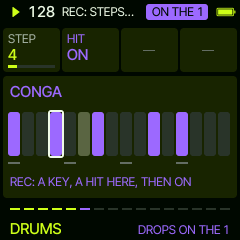
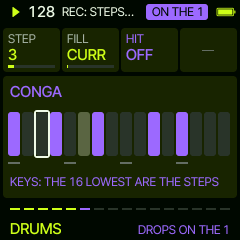
EDIT: KNOB 2 FILL (CURR and ready fills: drum fills, lines in the key, chord rhythms); a drum's steps on the 16 lowest keys, lit
Claude-Session: https://claude.ai/code/session_01VgesZgNNDFiPGvKyDTZVUK

diff --git a/firmware/src/sa_ui.c b/firmware/src/sa_ui.c
@@ -261,6 +261,8 @@ static int sv_sounds_of(int role, uint8_t *out)
 }
 
 static uint16_t sv_ed_bits(sa_ui *u, int l);         /* (below: the copy's bar of a layer) */
+static int sv_fills(const sa_ui *u);                 /* (below: EDIT's FILLs) */
+static const char *sv_fill_name(const sa_ui *u, int f);
 static int sv_now(const sa_groove *g) { return g->playing && g->tick >= 0 ? g->tick / SA_TPS : -1; }
 
 static void sv_cards_of(sa_ui *u, sv_card *c)
@@ -327,8 +329,8 @@ static void sv_cards_of(sa_ui *u, sv_card *c)
         bool on = e->type == SA_T_DRUM && ((sv_ed_bits(u, l) >> st) & 1u);
         sv_fmt_int(t, st + 1);
         sv_card_txt(&c[0], "STEP", t, st * 1000 / 15, false);
-        sv_card_txt(&c[1], "HIT", on ? "ON" : "OFF", -1, false);
-        sv_card_off(&c[2]);
+        sv_card_txt(&c[1], "FILL", sv_fill_name(u, u->fill), u->fill * 1000 / (sv_fills(u) - 1), u->fill > 0);
+        sv_card_txt(&c[2], "HIT", on ? "ON" : "OFF", -1, false);
         sv_card_off(&c[3]);
         return;
     }
@@ -359,6 +361,11 @@ static void sv_cards_of(sa_ui *u, sv_card *c)
             sv_card_txt(&c[2], "NOTE", "-", -1, false);
         }
         sv_card_off(&c[3]);
+        if (u->page == SV_PG_EDIT) {               /* EDIT: STEP FILL LENGTH NOTE */
+            c[3] = c[2];
+            c[2] = c[1];
+            sv_card_txt(&c[1], "FILL", sv_fill_name(u, u->fill), u->fill * 1000 / (sv_fills(u) - 1), u->fill > 0);
+        }
         return;
     }
     switch (sv_page_now(u)) {
@@ -1173,7 +1180,7 @@ static void sv_panel_edit_drum(sa_ui *u)
         cv_rrect(x, 36, 12, 44, 3, c, T_SURF);
         if (k % 4 == 0) cv_rect(x, 86, 12, 2, T_DIM);
     }
-    sv_label(10, 98, u->rec ? "REC: A KEY, A HIT HERE, THEN ON" : "REC: WRITE WITH THE KEYS", u->rec ? T_ACCENT : T_DIM);
+    sv_label(10, 98, u->rec ? "KEYS: THE 16 LOWEST ARE THE STEPS" : "REC: THE STEPS ON THE KEYS", u->rec ? T_ACCENT : T_DIM);
 }
 
 static void sv_draw_panel(sa_ui *u)
@@ -1295,6 +1302,83 @@ void sv_init(sa_ui *u, sa_groove *g)
         u->key_sent[k] = -1;
     memset(u->main_code, 0xFF, sizeof u->main_code);
     sv_apply_style(u);
+}
+
+/* EDIT's FILLs: ready steps the pattern becomes (in the copy, waits for SEQ). A drum: hits over the bar as it was
+ * (OR: its own kept) or in place of it; a line: notes on scale degrees (7: the octave up); CHORD: the chord's steps */
+typedef struct { const char *name; uint16_t mask; uint8_t keep; } sv_dfill;
+static const sv_dfill SV_DFILL[] = {
+    {"ROLL", 0xF000, 1},                  /* the last beat in sixteenths */
+    {"BUILD", 0xF511, 0},                 /* 1 5 9 11 13 14 15 16: closing in */
+    {"SNARE", 0xE110, 0},                 /* 5 9 13 14 15 16 */
+    {"BREAK", 0x00FF, 2},                 /* the first half only */
+    {"STUTTER", 0x0F00, 1},               /* the third beat in sixteenths */
+    {"GALLOP", 0xDDDD, 0},                /* 1 3 4 per beat */
+    {"FLAM", 0x8000, 1},                  /* one more on the last sixteenth */
+    {"DOUBLE", 0xFFFF, 3},                /* every hit twice: on the next sixteenth too */
+};
+#define SV_NDFILL ((int)(sizeof SV_DFILL / sizeof SV_DFILL[0]))
+typedef struct { const char *name; uint8_t n; struct { uint8_t st, len; int8_t deg; } s[16]; } sv_mfill;
+static const sv_mfill SV_MFILL[] = {
+    {"ROOT 8THS", 8, {{0, 2, 0}, {2, 2, 0}, {4, 2, 0}, {6, 2, 0}, {8, 2, 0}, {10, 2, 0}, {12, 2, 0}, {14, 2, 0}}},
+    {"ARP UP", 8, {{0, 2, 0}, {2, 2, 2}, {4, 2, 4}, {6, 2, 7}, {8, 2, 0}, {10, 2, 2}, {12, 2, 4}, {14, 2, 7}}},
+    {"ARP DOWN", 8, {{0, 2, 7}, {2, 2, 4}, {4, 2, 2}, {6, 2, 0}, {8, 2, 7}, {10, 2, 4}, {12, 2, 2}, {14, 2, 0}}},
+    {"OCTAVES", 8, {{0, 2, 0}, {2, 2, 7}, {4, 2, 0}, {6, 2, 7}, {8, 2, 0}, {10, 2, 7}, {12, 2, 0}, {14, 2, 7}}},
+    {"WALK", 4, {{0, 4, 0}, {4, 4, 1}, {8, 4, 2}, {12, 4, 4}}},
+    {"RIFF", 6, {{0, 2, 0}, {3, 1, 0}, {6, 2, 2}, {8, 2, 4}, {11, 1, 3}, {14, 2, 2}}},
+    {"CALL", 4, {{0, 3, 4}, {4, 2, 2}, {6, 2, 0}, {12, 3, 1}}},
+    {"PULSE 16", 16, {{0, 1, 0}, {1, 1, 0}, {2, 1, 0}, {3, 1, 0}, {4, 1, 0}, {5, 1, 0}, {6, 1, 0}, {7, 1, 0},
+                     {8, 1, 0}, {9, 1, 0}, {10, 1, 0}, {11, 1, 0}, {12, 1, 0}, {13, 1, 0}, {14, 1, 0}, {15, 1, 0}}},
+};
+#define SV_NMFILL ((int)(sizeof SV_MFILL / sizeof SV_MFILL[0]))
+typedef struct { const char *name; uint16_t mask; uint8_t len; } sv_cfill;
+static const sv_cfill SV_CFILL[] = {
+    {"STABS", 0x0408, 2}, {"OFFBEATS", 0x4444, 2}, {"PUSH", 0x4001, 3}, {"PULSE", 0x1111, 2}, {"8THS", 0x5555, 1},
+    {"16THS", 0xFFFF, 1}, {"DOTTED", 0x1249, 2}, {"HOLD", 0x0001, 16},
+};
+#define SV_NCFILL ((int)(sizeof SV_CFILL / sizeof SV_CFILL[0]))
+static int sv_fills(const sa_ui *u) { return 1 + (u->view == SV_V_DRUMS ? SV_NDFILL : u->view == SV_V_CHORD ? SV_NCFILL : SV_NMFILL); }
+static const char *sv_fill_name(const sa_ui *u, int f)
+{
+    if (f <= 0) return "CURR";
+    return u->view == SV_V_DRUMS ? SV_DFILL[(f - 1) % SV_NDFILL].name : u->view == SV_V_CHORD ? SV_CFILL[(f - 1) % SV_NCFILL].name
+                                                                    : SV_MFILL[(f - 1) % SV_NMFILL].name;
+}
+static void sv_fill_apply(sa_ui *u)
+{
+    sa_groove *g = u->g;
+    int l = u->layer;
+    sa_code *e = &g->ed[l];
+    *e = u->fill_orig;                             /* (CURR: as it was) */
+    if (u->fill <= 0) return;
+    sa_code o = u->fill_orig;
+    sa_own_make(g, &o);                            /* (its steps as they were) */
+    if (u->view == SV_V_DRUMS) {
+        const sv_dfill *f = &SV_DFILL[(u->fill - 1) % SV_NDFILL];
+        uint16_t h = o.hits;
+        if (f->keep == 1) h |= f->mask;
+        else if (f->keep == 2) h &= f->mask;
+        else if (f->keep == 3) h |= (uint16_t)(h << 1);
+        else h = f->mask;
+        o.hits = h;
+        o.acc &= h;
+    } else if (u->view == SV_V_CHORD) {
+        const sv_cfill *f = &SV_CFILL[(u->fill - 1) % SV_NCFILL];
+        for (int k = 0; k < 16; ++k) { o.sn[k] = SA_NO_NOTE; o.sl[k] = f->len; }
+        o.chord = f->mask;
+        o.acc = 0;
+    } else {
+        const sv_mfill *f = &SV_MFILL[(u->fill - 1) % SV_NMFILL];
+        int base = 12 * ((u->view == SV_V_BASS ? 2 : 5) + 1);   /* (above the key's C: bass in 2, lead in 5) */
+        for (int k = 0; k < 16; ++k) { o.sn[k] = SA_NO_NOTE; o.sl[k] = 1; }
+        o.chord = o.acc = 0;
+        for (int i = 0; i < f->n; ++i) {
+            o.sn[f->s[i].st] = (int8_t)(base + sa_degree(&g->ed_harm, f->s[i].deg));
+            o.sl[f->s[i].st] = f->s[i].len;
+        }
+    }
+    o.own = 1;
+    *e = o;
 }
 
 /* ALGORITHM on a layer: its pattern (OFF first; in the copy, waits for SEQ) */
@@ -1431,18 +1515,23 @@ void sv_knob(sa_ui *u, int k, int d)
     sa_code *e = &g->ed[l];
     u->changed = true;
 #define SV_ADJ(f, step, lo, hi) (f) = (uint8_t)sv_clampi((f) + d * (step), (lo), (hi))
-    if (u->page == SV_PG_EDIT && u->view == SV_V_DRUMS) {   /* EDIT, a drum: KNOB 1 the step, KNOB 2 its hit */
+    if (u->page == SV_PG_EDIT && i == 1) {         /* EDIT: FILL (CURR, the ready fills) */
+        u->fill = sv_clampi(u->fill + d, 0, sv_fills(u) - 1);
+        sv_fill_apply(u);
+        return;
+    }
+    if (u->page == SV_PG_EDIT && u->view == SV_V_DRUMS) {   /* EDIT, a drum: KNOB 1 the step, KNOB 3 its hit */
         if (i == 0) u->scur = sv_wrap(u->scur + d, 16);
-        else if (i == 1 && g->ed[l].type == SA_T_DRUM) {
+        else if (i == 2 && g->ed[l].type == SA_T_DRUM) {
             int st = sv_clampi(u->scur, 0, 15);
             bool on = (sv_ed_bits(u, l) >> st) & 1u;
             if (on != (d > 0)) sa_step_drum(g, l, st);
         }
         return;
     }
-    if (sv_steps_on(u)) {                          /* REC: KNOB 1 the step, KNOB 2 its length */
+    if (sv_steps_on(u)) {                          /* REC: KNOB 1 the step, KNOB 2 its length (EDIT: KNOB 3) */
         if (i == 0) u->scur = sv_wrap(u->scur + d, 16);
-        else if (i == 1) sa_step_len(g, l, sv_clampi(u->scur, 0, 15), d);
+        else if (i == (u->page == SV_PG_EDIT ? 2 : 1)) sa_step_len(g, l, sv_clampi(u->scur, 0, 15), d);
         return;
     }
     switch (sv_page_now(u)) {
@@ -1569,7 +1658,14 @@ void sv_button(sa_ui *u, int b, bool down)
         break;
     case SV_B_EDIT:                                /* a layer's pattern editor, again: back to its page */
         if (u->page == SV_PG_EDIT) { u->page = SV_PG_LAYER; u->rec = false; u->force = true; }
-        else if (u->page == SV_PG_LAYER && u->layer >= 0) { u->page = SV_PG_EDIT; u->rec = false; u->scur = 0; u->force = true; }
+        else if (u->page == SV_PG_LAYER && u->layer >= 0) {
+            u->page = SV_PG_EDIT;
+            u->rec = false;
+            u->scur = 0;
+            u->fill = 0;
+            u->fill_orig = u->g->ed[u->layer];     /* (CURR: the pattern as it is now) */
+            u->force = true;
+        }
         break;
     case SV_B_GLO:                                 /* the MIXER, again: back */
         if (u->page == SV_PG_MIXER) {
@@ -1631,13 +1727,14 @@ void sv_key(sa_ui *u, int note, bool down)
         return;
     int k = note - SV_KEY_LO;
     bool lay = sv_on_layer(u) && u->layer >= 0;
-    if (lay && u->rec && u->page == SV_PG_EDIT && u->view == SV_V_DRUMS) {   /* EDIT, REC: a hit at the step, then on */
+    if (lay && u->rec && u->page == SV_PG_EDIT && u->view == SV_V_DRUMS && k < 16) {   /* EDIT, REC: the 16 lowest keys
+                                                                                       * are the steps (lit) */
         if (!down || u->g->ed[u->layer].type != SA_T_DRUM) return;
-        int st = sv_clampi(u->scur, 0, 15);
+        int st = k;
         bool was = (sv_ed_bits(u, u->layer) >> st) & 1u;
         sa_step_drum(u->g, u->layer, st);
         if (!was) sa_key_drum(u->g, k, u->g->ed[u->layer].sound, true), sa_key_drum(u->g, k, u->g->ed[u->layer].sound, false);
-        u->scur = (st + 1) % 16;
+        u->scur = st;
         u->changed = true;
         return;
     }
@@ -1702,7 +1799,6 @@ bool sv_key_leds(const sa_ui *u, uint32_t *full, uint32_t *dim)
 {
     *full = *dim = 0;
     if (!u->rec || !sv_on_layer(u) || u->layer < 0) return false;
-    if (u->page == SV_PG_EDIT && u->view == SV_V_DRUMS) return false;   /* (EDIT, a drum: the keys write at the step) */
     const sa_groove *g = u->g;
     int l = u->layer;
     if (u->view == SV_V_DRUMS) {

diff --git a/tests/sa_ui_test.c b/tests/sa_ui_test.c
@@ -440,6 +440,10 @@ int main(int argc, char **argv)
     sv_key(&ui, 60, true);
     sv_key(&ui, 60, false);
     CHECK(ui.rec && g.ed[SA_L_BASS].own && g.ed[SA_L_BASS].sn[5] != SA_NO_NOTE && ui.scur == 6, "EDIT, REC: a note on step 6");
+    sv_knob(&ui, SV_K2, 2);
+    CHECK(!strcmp(sv_fill_name(&ui, ui.fill), "ARP UP") && g.ed[SA_L_BASS].sn[0] != SA_NO_NOTE &&
+          g.ed[SA_L_BASS].sn[2] > g.ed[SA_L_BASS].sn[0], "FILL: ARP UP, a line up the scale");
+    shot("18f_edit_fill");
     shot("18d_edit_bass");
     press(SV_B_SEQ);
     press(SV_B_EDIT);
@@ -447,12 +451,22 @@ int main(int argc, char **argv)
     to_view(SV_V_DRUMS);
     press(SV_B_EDIT);
     sv_knob(&ui, SV_K1, 2);
+    sv_knob(&ui, SV_K3, 1);
+    CHECK((sv_ed_bits(&ui, ui.layer) >> 2) & 1u, "EDIT, a drum: KNOB 3 a hit on step 3");
     sv_knob(&ui, SV_K2, 1);
-    CHECK((sv_ed_bits(&ui, ui.layer) >> 2) & 1u, "EDIT, a drum: KNOB 2 a hit on step 3");
+    CHECK((sv_ed_bits(&ui, ui.layer) & 0xF000u) == 0xF000u && !strcmp(sv_fill_name(&ui, ui.fill), "ROLL"),
+          "FILL: ROLL, the last beat in sixteenths (%04x)", sv_ed_bits(&ui, ui.layer));
+    sv_knob(&ui, SV_K2, -1);
+    CHECK(ui.fill == 0 && !memcmp(&g.ed[ui.layer], &ui.fill_orig, sizeof ui.fill_orig), "FILL back to CURR: as it was");
+    sv_knob(&ui, SV_K3, 1);
     press(SV_B_REC);
-    sv_key(&ui, 70, true);
-    sv_key(&ui, 70, false);
-    CHECK(((sv_ed_bits(&ui, ui.layer) >> 2) & 1u) == 0 && ui.scur == 3, "EDIT, REC: a key toggles the step, then on");
+    {
+        uint32_t fl, dl;
+        CHECK(sv_key_leds(&ui, &fl, &dl) && dl == 0xFFFFu, "EDIT, REC, a drum: the 16 step keys lit");
+    }
+    sv_key(&ui, SV_KEY_LO + 2, true);
+    sv_key(&ui, SV_KEY_LO + 2, false);
+    CHECK(((sv_ed_bits(&ui, ui.layer) >> 2) & 1u) == 0, "EDIT, REC: the third key, step 3 off");
     shot("18e_edit_drum");
     press(SV_B_SEQ);
     press(SV_B_EDIT);

diff --git a/firmware/src/sa_ui.h b/firmware/src/sa_ui.h
@@ -23,8 +23,9 @@
  *   PLAY       start / stop
  *   SCL        the KEY page (KEY SCALE CHORDS BARS), again: back
  *   SAVE       SETS (eight sets and LAST), again: back
- *   EDIT       a layer's pattern editor: KNOB 1 the step, REC: a key writes it there (a synth layer: its note,
- *              KNOB 2 its length; a drum: a hit on or off), then the next; again: back
+ *   EDIT       a layer's pattern editor: KNOB 1 the step, KNOB 2 FILL (CURR, the pattern as it was, or a ready fill:
+ *              a line, a drum fill), KNOB 3 its LENGTH (a drum: its HIT); REC: a key writes the step (a drum: the 16
+ *              lowest keys its steps, lit); again: back
  *   GLO        the MIXER (LEAD CHORD BASS DRUMS: their VOLUME; FX: their MUTE), again: back
  *   HOME       HOME; held: MENU (colour, look)
  *   keys       the layer open, live (HOME: LEAD), snapped to the scale; REC: its steps. Music and steps only
@@ -70,7 +71,9 @@ typedef struct {
     int back;                             /* the page KEY goes back to */
     int mback;                            /* the page the MIXER goes back to */
     bool mixmute;                         /* the MIXER's knobs: MUTE (FX turns them over) */
-    int scur;                             /* REC on a synth layer: the step the keys write */
+    int scur;                             /* REC on a synth layer, EDIT: the step the keys write */
+    int fill;                             /* EDIT: KNOB 2's FILL (0 CURR: the pattern as it was) */
+    sa_code fill_orig;                    /* EDIT: the pattern as it was when EDIT opened (CURR) */
     int hot, hot_ms;                      /* the knob just turned (its card lit); 9: the chip */
     char msg[32];
     int msg_ms;

diff --git a/firmware/src/sa_layer.h b/firmware/src/sa_layer.h
@@ -249,6 +249,7 @@ int sa_synth_free_part(const sa_groove *g, int except);   /* a part no other syn
 int sa_synth_count(const sa_groove *g);             /* synth layers in the copy */
 bool sa_used(const sa_groove *g, int l);            /* a layer that plays or will (in either copy) */
 int sa_snap(const sa_harm *h, int note);
+int sa_degree(const sa_harm *h, int deg);          /* a scale degree (0 the root, 7 the octave up) in semitones */
 /* a whole bar of one layer's code, for the screen: a bit per sixteenth (bar 0) */
 uint16_t sa_preview(const sa_groove *g, const sa_code *c, int layer, int bar);
 /* the own pattern (in the copy, the edits wait for REC): made from the ready pattern on the first edit */

diff --git a/firmware/src/sa_layer.c b/firmware/src/sa_layer.c
@@ -521,6 +521,12 @@ uint16_t sa_preview(const sa_groove *g, const sa_code *c, int layer, int bar)
 }
 
 /* ---- the chords ---------------------------------------------------------------------------------------------- */
+int sa_degree(const sa_harm *h, int deg)
+{
+    int o = deg >= 0 ? deg / 7 : -((6 - deg) / 7);
+    return 12 * o + SCALE[h->scale % SA_SCALES][deg - 7 * o];
+}
+
 int sa_snap(const sa_harm *h, int note)
 {
     const uint8_t *sc = SCALE[clampi(h->scale, 0, SA_SCALES - 1)];

diff --git a/docs/MANUAL.md b/docs/MANUAL.md
@@ -113,11 +113,17 @@ pattern the layer's own (MY STEPS); like a pattern, the steps wait for SEQ, and 
 <img src="screens/edit_drum.png" alt="EDIT, a drum" width="200">
 </p>
 
-**EDIT** on a layer opens its pattern editor: its 16 steps, the step **KNOB 1** is on framed. With **REC** on, a key
-writes there and the frame moves on to the next step: on LEAD and BASS the key's note (snapped to the scale; the same
-note again takes it off, **KNOB 2** its length), on CHORD the chord, on DRUMS a hit of the row picked, on or off
-(**KNOB 2** sets it on or off too). Without REC the keys play the layer, lit with what it plays. Like a pattern, the
-steps wait for SEQ. EDIT again goes back.
+**EDIT** on a layer opens its pattern editor: its 16 steps, the step **KNOB 1** is on framed. **KNOB 2** is **FILL**:
+CURR (the pattern as it was when you opened EDIT) and ready fills that rewrite the steps; turn back to CURR and the
+pattern is as it was. On DRUMS: ROLL (the last beat in sixteenths), BUILD, SNARE, BREAK (the first half only), STUTTER,
+GALLOP, FLAM and DOUBLE, over the drum's own hits or in place of them. On LEAD and BASS ready lines in the key: ROOT
+8THS, ARP UP, ARP DOWN, OCTAVES, WALK, RIFF, CALL, PULSE 16. On CHORD the chord's rhythm: STABS, OFFBEATS, PUSH,
+PULSE, 8THS, 16THS, DOTTED, HOLD. **KNOB 3** is the step's LENGTH (on DRUMS its HIT, on or off).
+
+With **REC** on, LEAD, BASS and CHORD: a key writes at the framed step (the note snapped to the scale, the same note
+again takes it off; on CHORD the chord) and the frame moves on. DRUMS: the 16 lowest keys are the steps, glowing dim,
+the hits set full; a key turns its step on or off, the keys above play the drum. Without REC the keys play the layer,
+lit with what it plays. Like a pattern, the steps wait for SEQ. EDIT again goes back.
 
 ## DRUMS
 

diff --git a/docs/RELEASE.md b/docs/RELEASE.md
@@ -2,7 +2,8 @@ Sardine 0.7: live club mixing for the FM-1.
 
 - Four layers, always there, each on or OFF: LEAD, CHORD, BASS and DRUMS. PRESETS goes from one to the next, FX
   through a layer's pages (MIX: VOLUME TYPE INSTR MUTE, ARP, PAN, 3D, PUMP, GATE, MOD; DRUMS: MIX, KIT, MOD), HOME back to them all
-- EDIT: a pattern editor, KNOB 1 the step, REC: a key writes it there
+- EDIT: a pattern editor, KNOB 1 the step, KNOB 2 ready fills (drum fills, lines in the key, chord rhythms), REC:
+  the keys write the steps
 - GLO: a MIXER, the four layers' volumes and mutes
 - SELECT is the tempo, ALGORITHM the pattern; SEQ drops what waits on the one; REC records steps on the keys
 - DRUMS: seven rows on channels of their own (KICK SNARE CLAP HATS TOMS RIM METAL), each drum switched at once;
